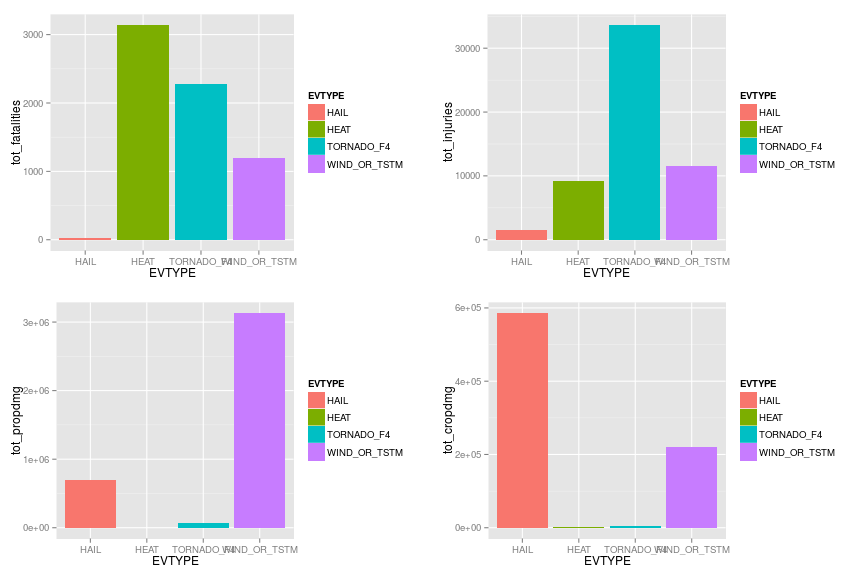
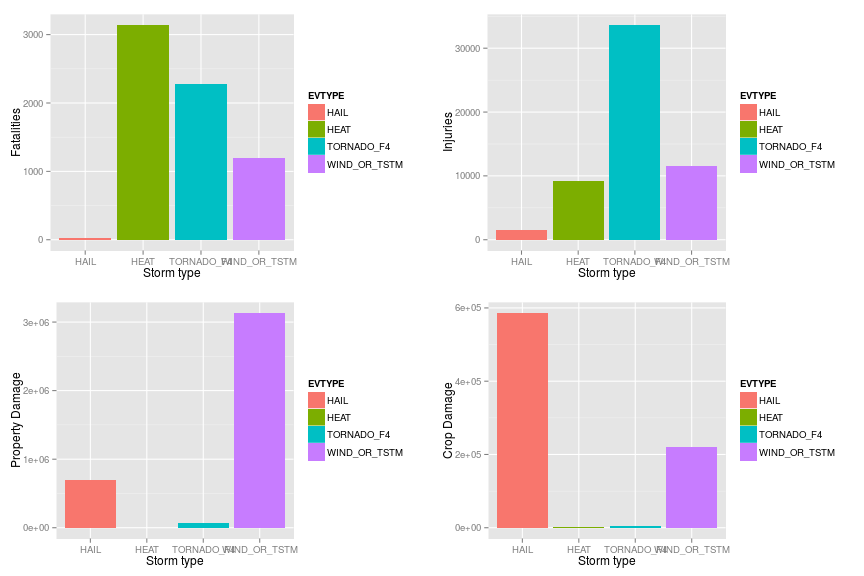
ENH: added better labels to plots

diff --git a/project.html b/project.html
@@ -870,14 +870,22 @@ knitr::kable( all_top )
 
 <p>A final plot of the data</p>
 
-<pre><code class="r">p1 &lt;- ggplot( all_top, aes(x=EVTYPE,y=tot_fatalities,fill=EVTYPE)) + geom_bar(stat=&quot;identity&quot;,position=&#39;dodge&#39;)
-p2 &lt;- ggplot( all_top, aes(x=EVTYPE,y=tot_injuries,fill=EVTYPE)) + geom_bar(stat=&quot;identity&quot;,position=&#39;dodge&#39;)
-p3 &lt;- ggplot( all_top, aes(x=EVTYPE,y=tot_propdmg,fill=EVTYPE)) + geom_bar(stat=&quot;identity&quot;,position=&#39;dodge&#39;)
-p4 &lt;- ggplot( all_top, aes(x=EVTYPE,y=tot_cropdmg,fill=EVTYPE)) + geom_bar(stat=&quot;identity&quot;,position=&#39;dodge&#39;)
+<pre><code class="r">p1 &lt;- ggplot( all_top, aes(x=EVTYPE,y=tot_fatalities,fill=EVTYPE)) +
+              labs(x=&quot;Storm type&quot;, y=&quot;Fatalities&quot;) +
+              geom_bar(stat=&quot;identity&quot;,position=&#39;dodge&#39;) 
+p2 &lt;- ggplot( all_top,aes(x=EVTYPE,y=tot_injuries,fill=EVTYPE)) + 
+              labs(x=&quot;Storm type&quot;,y=&quot;Injuries&quot;) + 
+              geom_bar(stat=&quot;identity&quot;,position=&#39;dodge&#39;) 
+p3 &lt;-ggplot( all_top, aes(x=EVTYPE,y=tot_propdmg,fill=EVTYPE)) +
+             labs(x=&quot;Storm type&quot;, y=&quot;Property Damage&quot;) +
+             geom_bar(stat=&quot;identity&quot;,position=&#39;dodge&#39;) 
+p4 &lt;- ggplot( all_top,aes(x=EVTYPE,y=tot_cropdmg,fill=EVTYPE)) + 
+              labs(x=&quot;Storm type&quot;,y=&quot;Crop Damage&quot;) + 
+              geom_bar(stat=&quot;identity&quot;,position=&#39;dodge&#39;)
 grid.arrange(p1,p2,p3,p4,ncol=2)
 </code></pre>
 
[2 lines of base64/hex data omitted]
 
 </body>
 

diff --git a/project.md b/project.md
@@ -382,10 +382,18 @@ knitr::kable( all_top )
 A final plot of the data
 
 ```r
-p1 <- ggplot( all_top, aes(x=EVTYPE,y=tot_fatalities,fill=EVTYPE)) + geom_bar(stat="identity",position='dodge')
-p2 <- ggplot( all_top, aes(x=EVTYPE,y=tot_injuries,fill=EVTYPE)) + geom_bar(stat="identity",position='dodge')
-p3 <- ggplot( all_top, aes(x=EVTYPE,y=tot_propdmg,fill=EVTYPE)) + geom_bar(stat="identity",position='dodge')
-p4 <- ggplot( all_top, aes(x=EVTYPE,y=tot_cropdmg,fill=EVTYPE)) + geom_bar(stat="identity",position='dodge')
+p1 <- ggplot( all_top, aes(x=EVTYPE,y=tot_fatalities,fill=EVTYPE)) +
+              labs(x="Storm type", y="Fatalities") +
+              geom_bar(stat="identity",position='dodge') 
+p2 <- ggplot( all_top,aes(x=EVTYPE,y=tot_injuries,fill=EVTYPE)) + 
+              labs(x="Storm type",y="Injuries") + 
+              geom_bar(stat="identity",position='dodge') 
+p3 <-ggplot( all_top, aes(x=EVTYPE,y=tot_propdmg,fill=EVTYPE)) +
+             labs(x="Storm type", y="Property Damage") +
+             geom_bar(stat="identity",position='dodge') 
+p4 <- ggplot( all_top,aes(x=EVTYPE,y=tot_cropdmg,fill=EVTYPE)) + 
+              labs(x="Storm type",y="Crop Damage") + 
+              geom_bar(stat="identity",position='dodge')
 grid.arrange(p1,p2,p3,p4,ncol=2)
 ```
 
